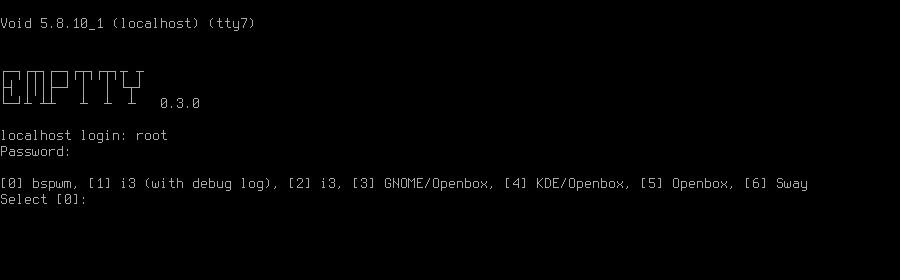
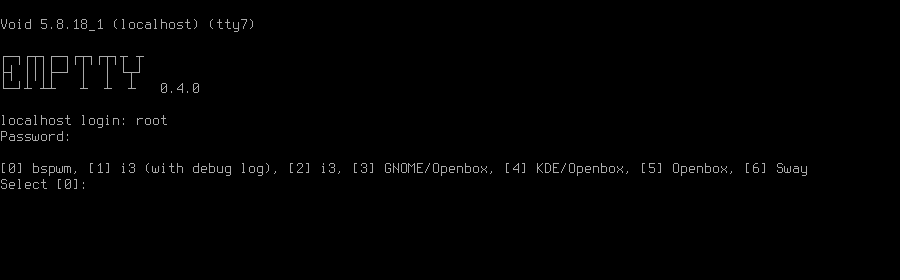
Version bump

diff --git a/src/emptty.go b/src/emptty.go
@@ -5,7 +5,7 @@ import (
 	"os"
 )
 
-const version = "0.3.0"
+const version = "0.4.0"
 
 // Shows login screen
 func showLoginScreen(conf *config) {
